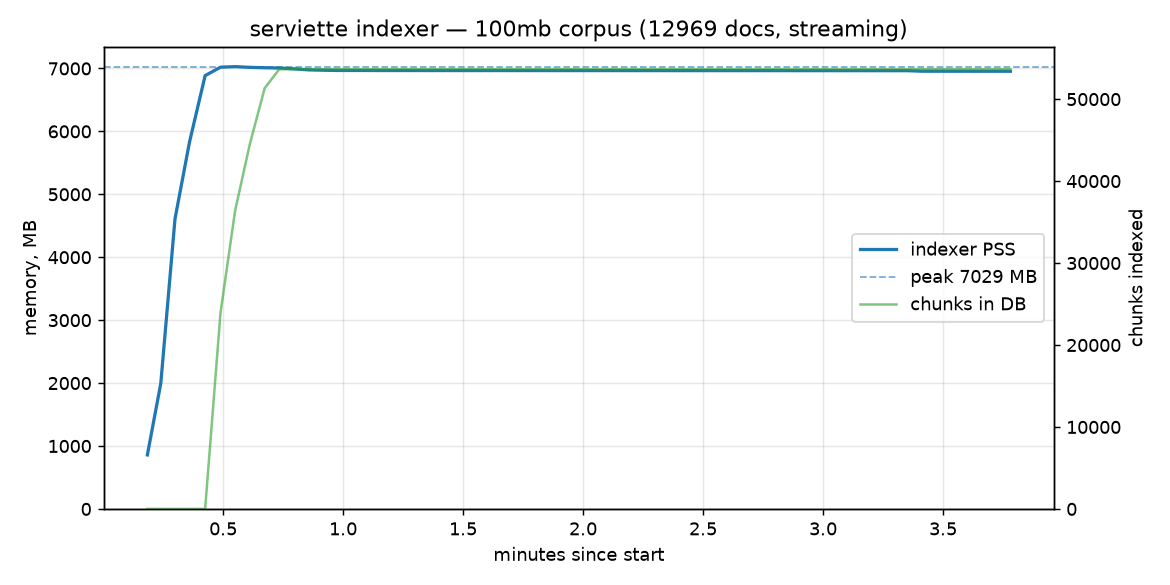
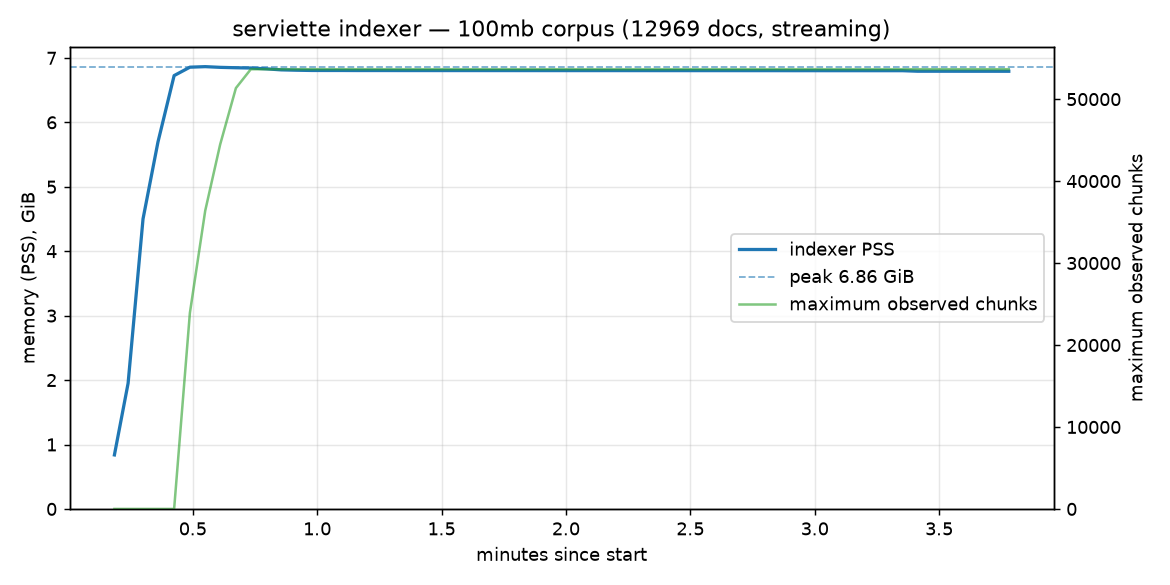
Use GiB and validated data for all individual memory plots

diff --git a/benchmarks/realtime-data-indexing/plot_results.py b/benchmarks/realtime-data-indexing/plot_results.py
@@ -140,6 +140,30 @@ def load_calibration(results, environment):
     return calibration
 
 
+def draw_run(run, output_path):
+    """Regenerate each size's plot from the same validated CSV and summary."""
+    fig, ax = plt.subplots(figsize=(9, 4.5))
+    minutes = [s['elapsed_s'] / 60 for s in run['samples']]
+    peak_gib = run['summary']['peak_pss_mb'] / 1024
+    ax.plot(minutes, [s['pss_mb'] / 1024 for s in run['samples']],
+            label='indexer PSS', linewidth=1.8)
+    ax.axhline(peak_gib, linestyle='--', linewidth=1, alpha=0.6,
+               label=f'peak {peak_gib:.2f} GiB')
+    ax.set(xlabel='minutes since start', ylabel='memory (PSS), GiB', ylim=(0, None),
+           title=f"serviette indexer — {run['size']} corpus ({run['summary']['documents']} docs, streaming)")
+    chunks = ax.twinx()
+    chunks.plot(minutes, [s['chunks'] for s in run['samples']], color='tab:green',
+                alpha=0.6, linewidth=1.4, label='maximum observed chunks')
+    chunks.set(ylabel='maximum observed chunks', ylim=(0, None))
+    lines, labels = ax.get_legend_handles_labels()
+    other_lines, other_labels = chunks.get_legend_handles_labels()
+    ax.legend(lines + other_lines, labels + other_labels, loc='center right')
+    ax.grid(alpha=0.3)
+    fig.tight_layout()
+    fig.savefig(output_path, dpi=130)
+    plt.close(fig)
+
+
 def draw_breakdown(ten, c, remaining_mb, output_path):
     values = list(c.values())
     labels = ["Local embedder\nPrivate memory (estimate)",
@@ -199,6 +223,8 @@ def main():
     environment = json.loads((args.results / "run-environment.json").read_text())
     ten = next(r for r in runs if r["size"] == "10gb")
     calibration = load_calibration(args.results, environment)
+    for run in runs:
+        draw_run(run, args.results / f"{run['size']}-memory.png")
     c = embedder_breakdown(ten, calibration)
     files = np.array([r["summary"]["documents"] for r in runs], dtype=float)
     extra = np.array([r["final_components"]["connector_extra_mb_estimate"] for r in runs])

diff --git a/benchmarks/realtime-data-indexing/run_bench.py b/benchmarks/realtime-data-indexing/run_bench.py
@@ -446,14 +446,14 @@ def main() -> None:
 
     fig, ax = plt.subplots(figsize=(9, 4.5))
     minutes = [s[0] / 60 for s in samples]
-    ax.plot(minutes, [s[3] / 1024 for s in samples], label="indexer PSS", linewidth=1.8)
-    ax.axhline(peak_pss_mb, linestyle="--", linewidth=1, alpha=0.6, label=f"peak {peak_pss_mb:.0f} MB")
+    ax.plot(minutes, [s[3] / 1024**2 for s in samples], label="indexer PSS", linewidth=1.8)
+    ax.axhline(peak_pss_mb / 1024, linestyle="--", linewidth=1, alpha=0.6, label=f"peak {peak_pss_mb / 1024:.2f} GiB")
     ax.set_xlabel("minutes since start")
-    ax.set_ylabel("memory, MB")
+    ax.set_ylabel("memory (PSS), GiB")
     ax.set_ylim(bottom=0)
     ax2 = ax.twinx()
-    ax2.plot(minutes, [s[4] for s in samples], color="tab:green", alpha=0.6, linewidth=1.4, label="chunks in DB")
-    ax2.set_ylabel("chunks indexed")
+    ax2.plot(minutes, [s[4] for s in samples], color="tab:green", alpha=0.6, linewidth=1.4, label="maximum observed chunks")
+    ax2.set_ylabel("maximum observed chunks")
     ax2.set_ylim(bottom=0)
     ax.set_title(f"serviette indexer — {args.size} corpus ({docs_count} docs, streaming)")
     lines, labels = ax.get_legend_handles_labels()
